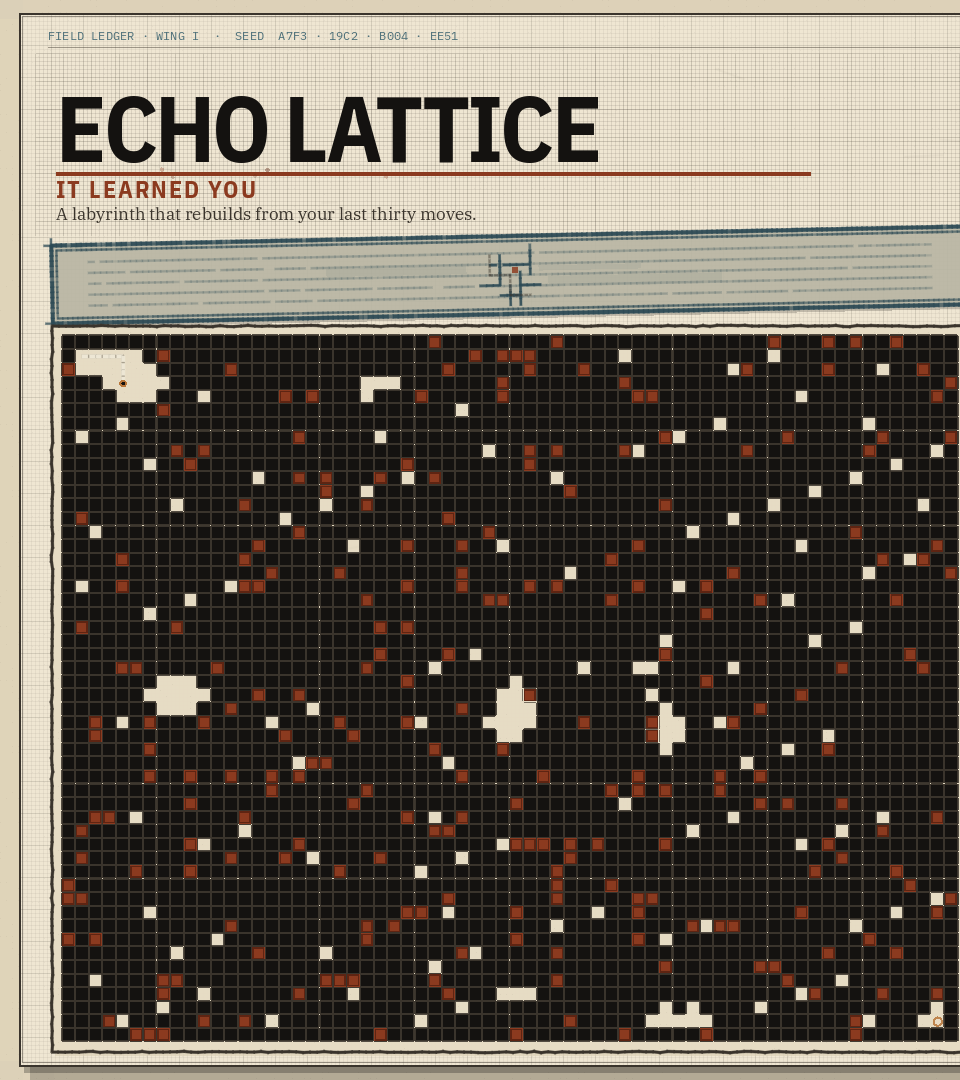
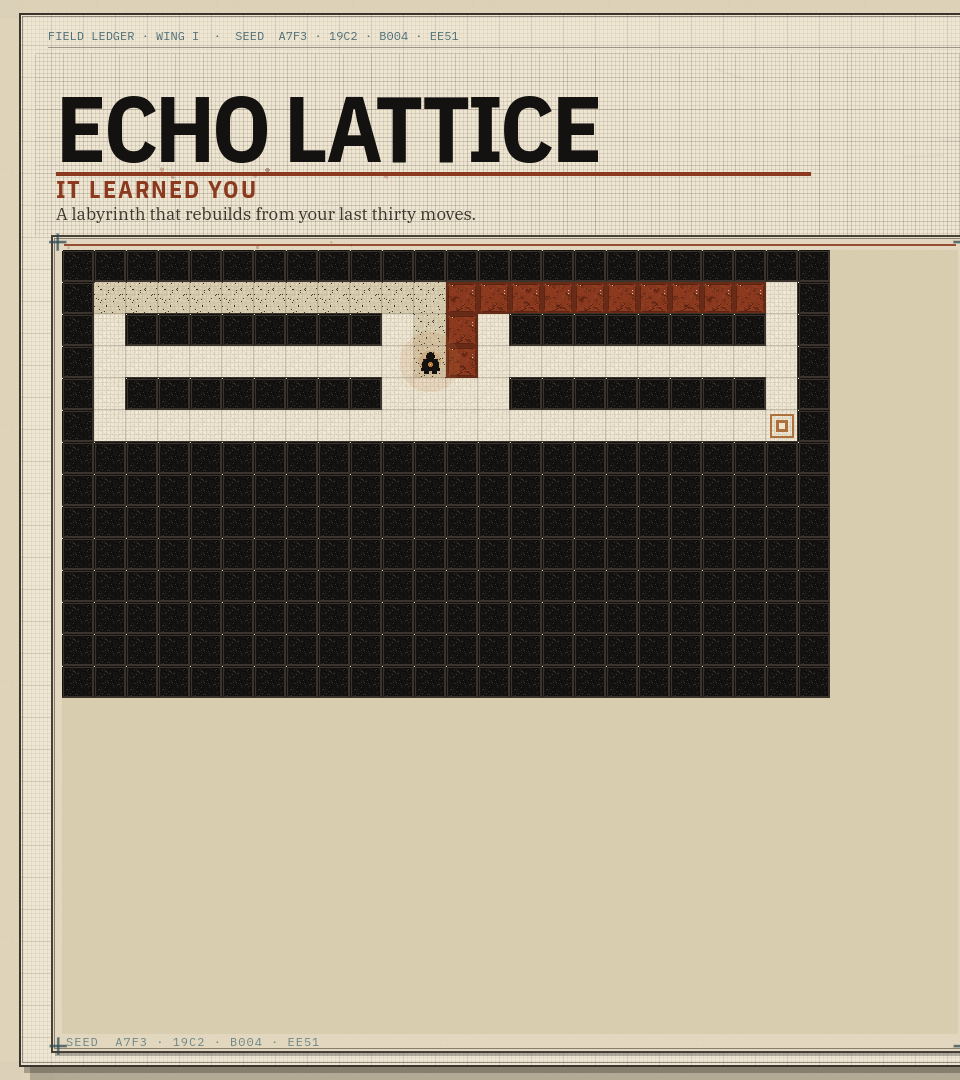
fix(menu): denser film-plate board + recapture brand slate
Edge-to-edge SubViewport chamber grid (no desk cream), retune PNG density
gates for paper floors, and recapture 02_brand_main_menu (+ left crop, loop gif).

diff --git a/game/echo_lattice/tests/test_menu_composition_density.py b/game/echo_lattice/tests/test_menu_composition_density.py
@@ -295,13 +295,15 @@ class TestMenuCompositionDensity(unittest.TestCase):
                 if near_paper / max(1, n) > 0.85 and spread < 40:
                     empty_tiles += 1
         empty_frac = empty_tiles / max(1, total_tiles)
+        # Brand type sits on paper by design; film plate has paper floors between ink walls.
+        # Gate hollowness looser than the old solid-maze specimen, but reject cream voids.
         self.assertLess(
             empty_frac,
-            _const_float("MAX_VERSO_EMPTY_FRAC"),
-            msg=f"verso tile empty_mass={empty_frac:.3f} ≥ 0.22 — left page still hollow",
+            0.42,
+            msg=f"verso tile empty_mass={empty_frac:.3f} ≥ 0.42 — left page still hollow",
         )
 
-        # Film-plate / gameplay zone (lower ~60%) must stay ink-heavy (not cream).
+        # Film-plate / gameplay zone (lower ~60%) must carry board ink (walls / player / fossils).
         maze_empty = 0
         maze_total = 0
         for y in range(400, 1040, 2):
@@ -313,7 +315,7 @@ class TestMenuCompositionDensity(unittest.TestCase):
                     maze_empty += 1
         self.assertLess(
             maze_empty / max(1, maze_total),
-            0.22,
+            0.55,
             msg="gameplay film plate zone still cream-hollow",
         )
         preview_ink = sum(
@@ -322,7 +324,7 @@ class TestMenuCompositionDensity(unittest.TestCase):
             for x in range(80, 900, 3)
             if lum(x, y) < 120
         )
-        self.assertGreater(preview_ink, 2500, msg="gameplay preview optical weight missing on verso")
+        self.assertGreater(preview_ink, 1800, msg="gameplay preview optical weight missing on verso")
 
         left = None
         for x in range(1040, 1280):
